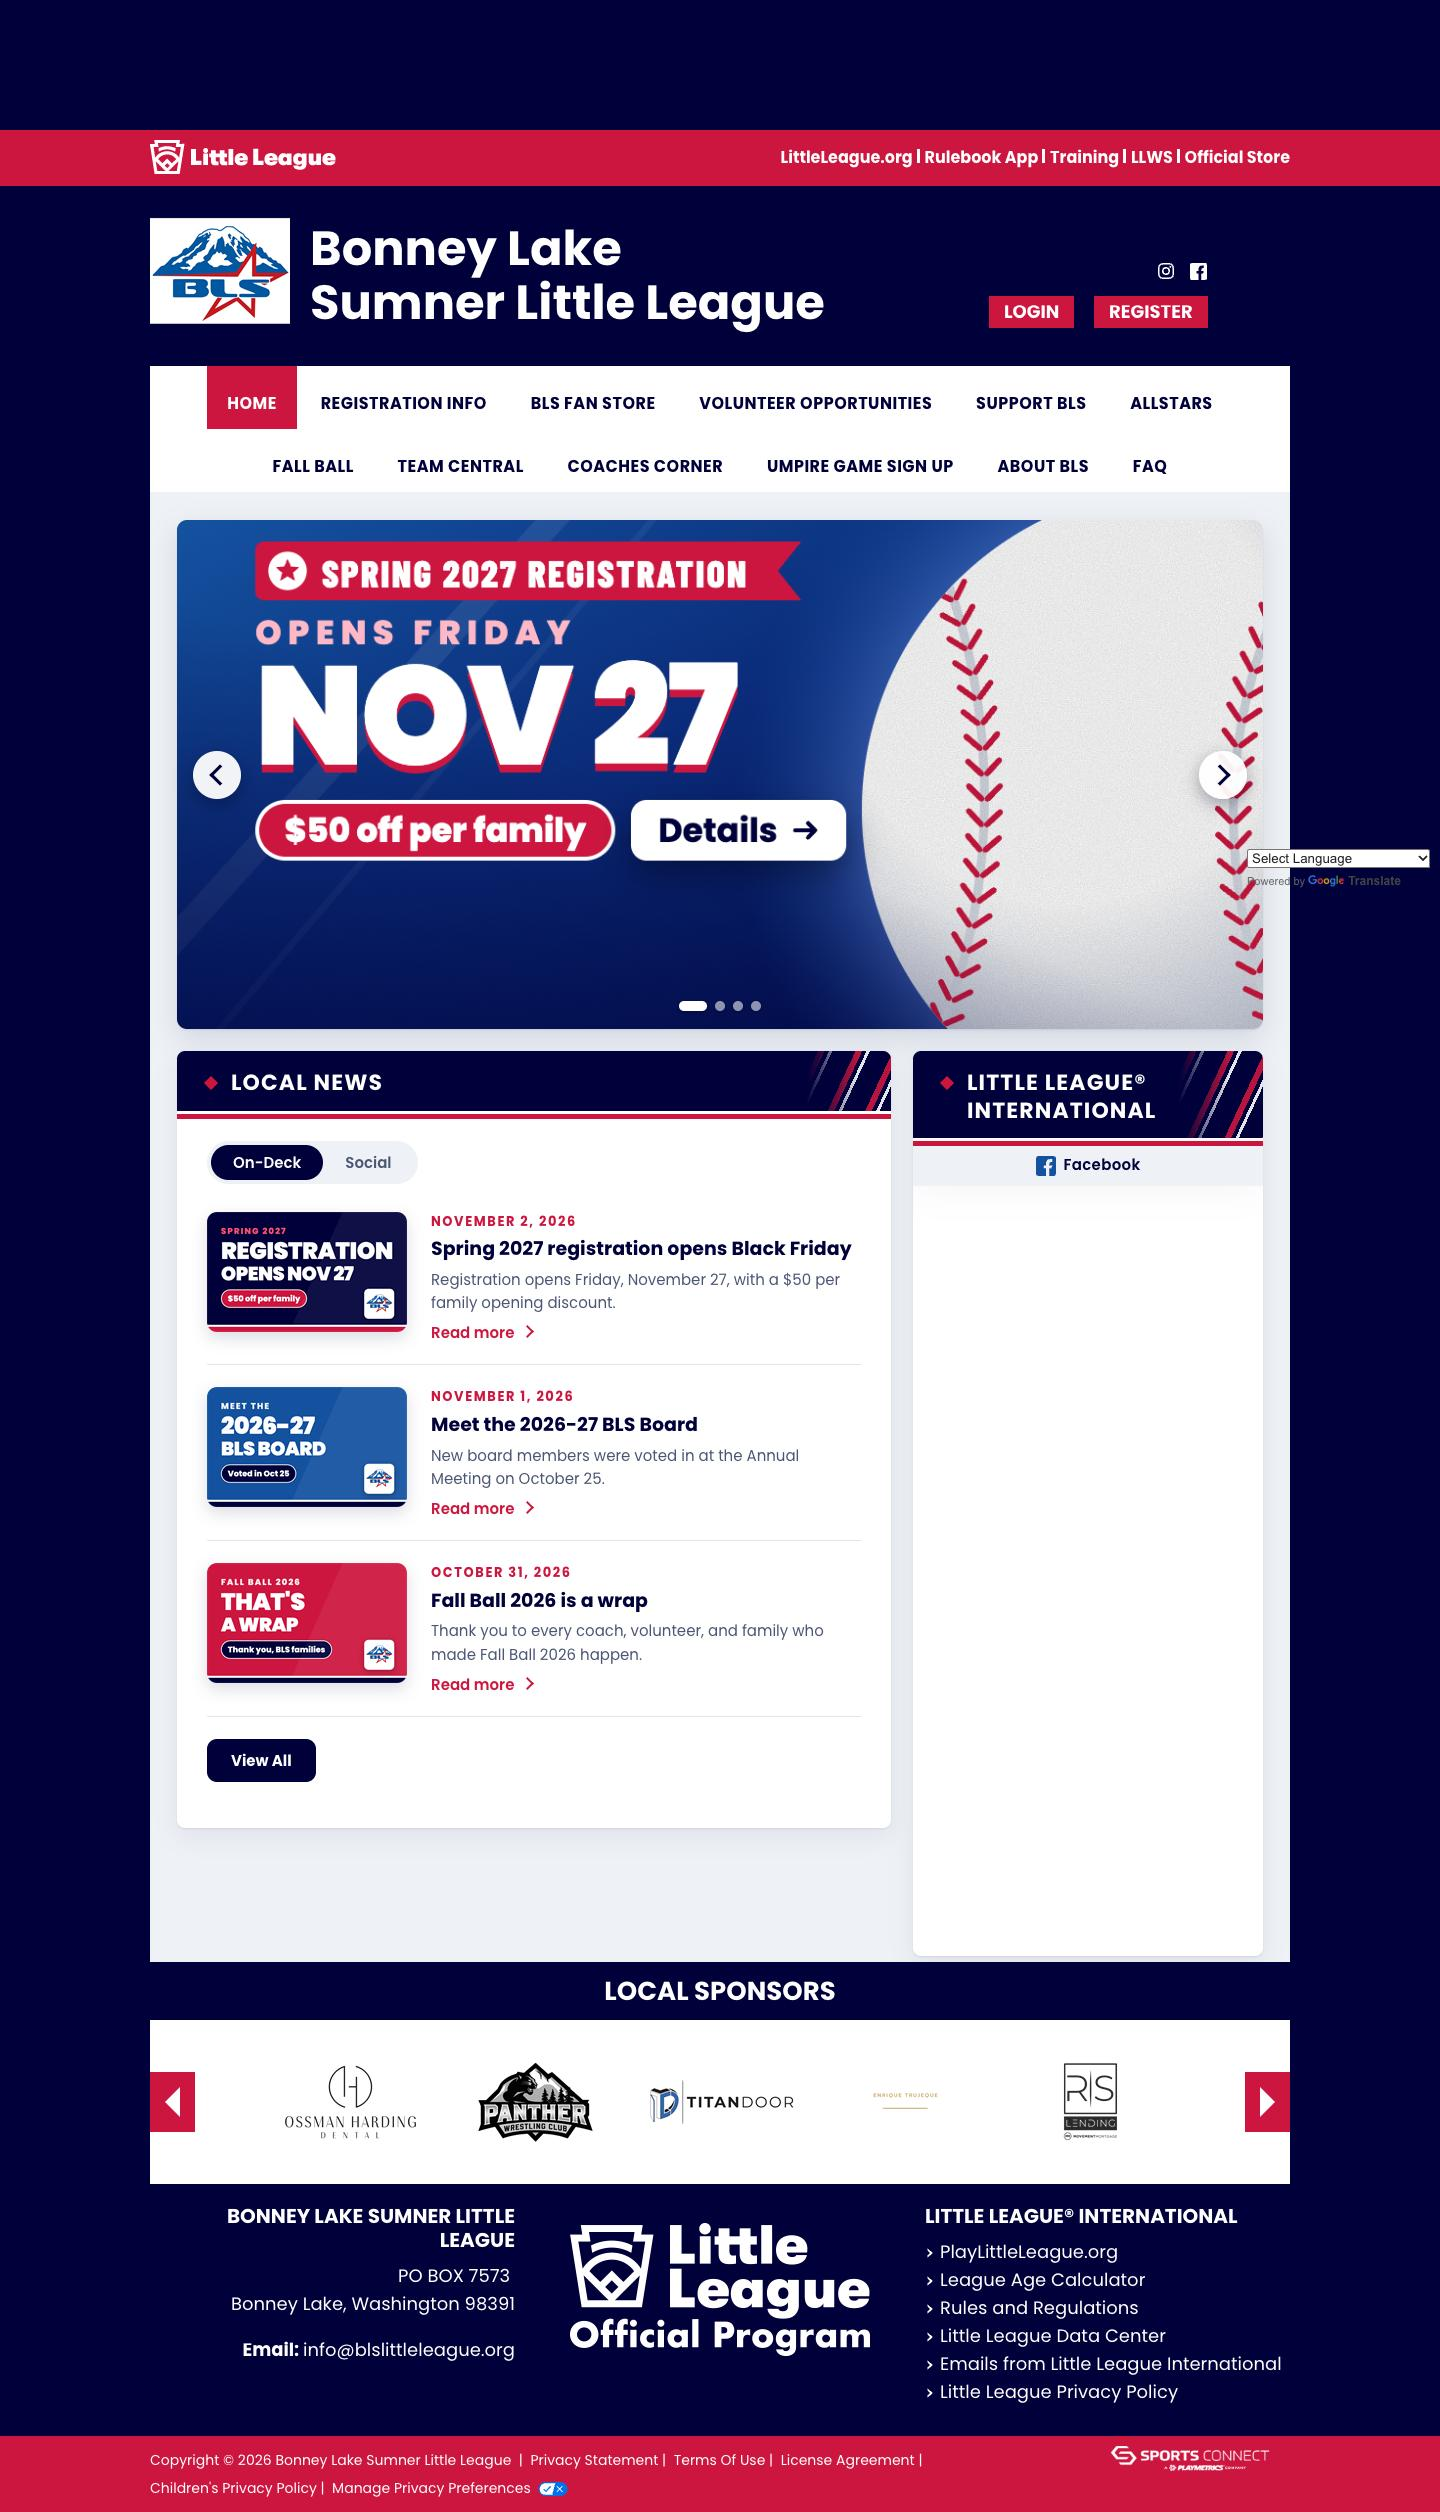
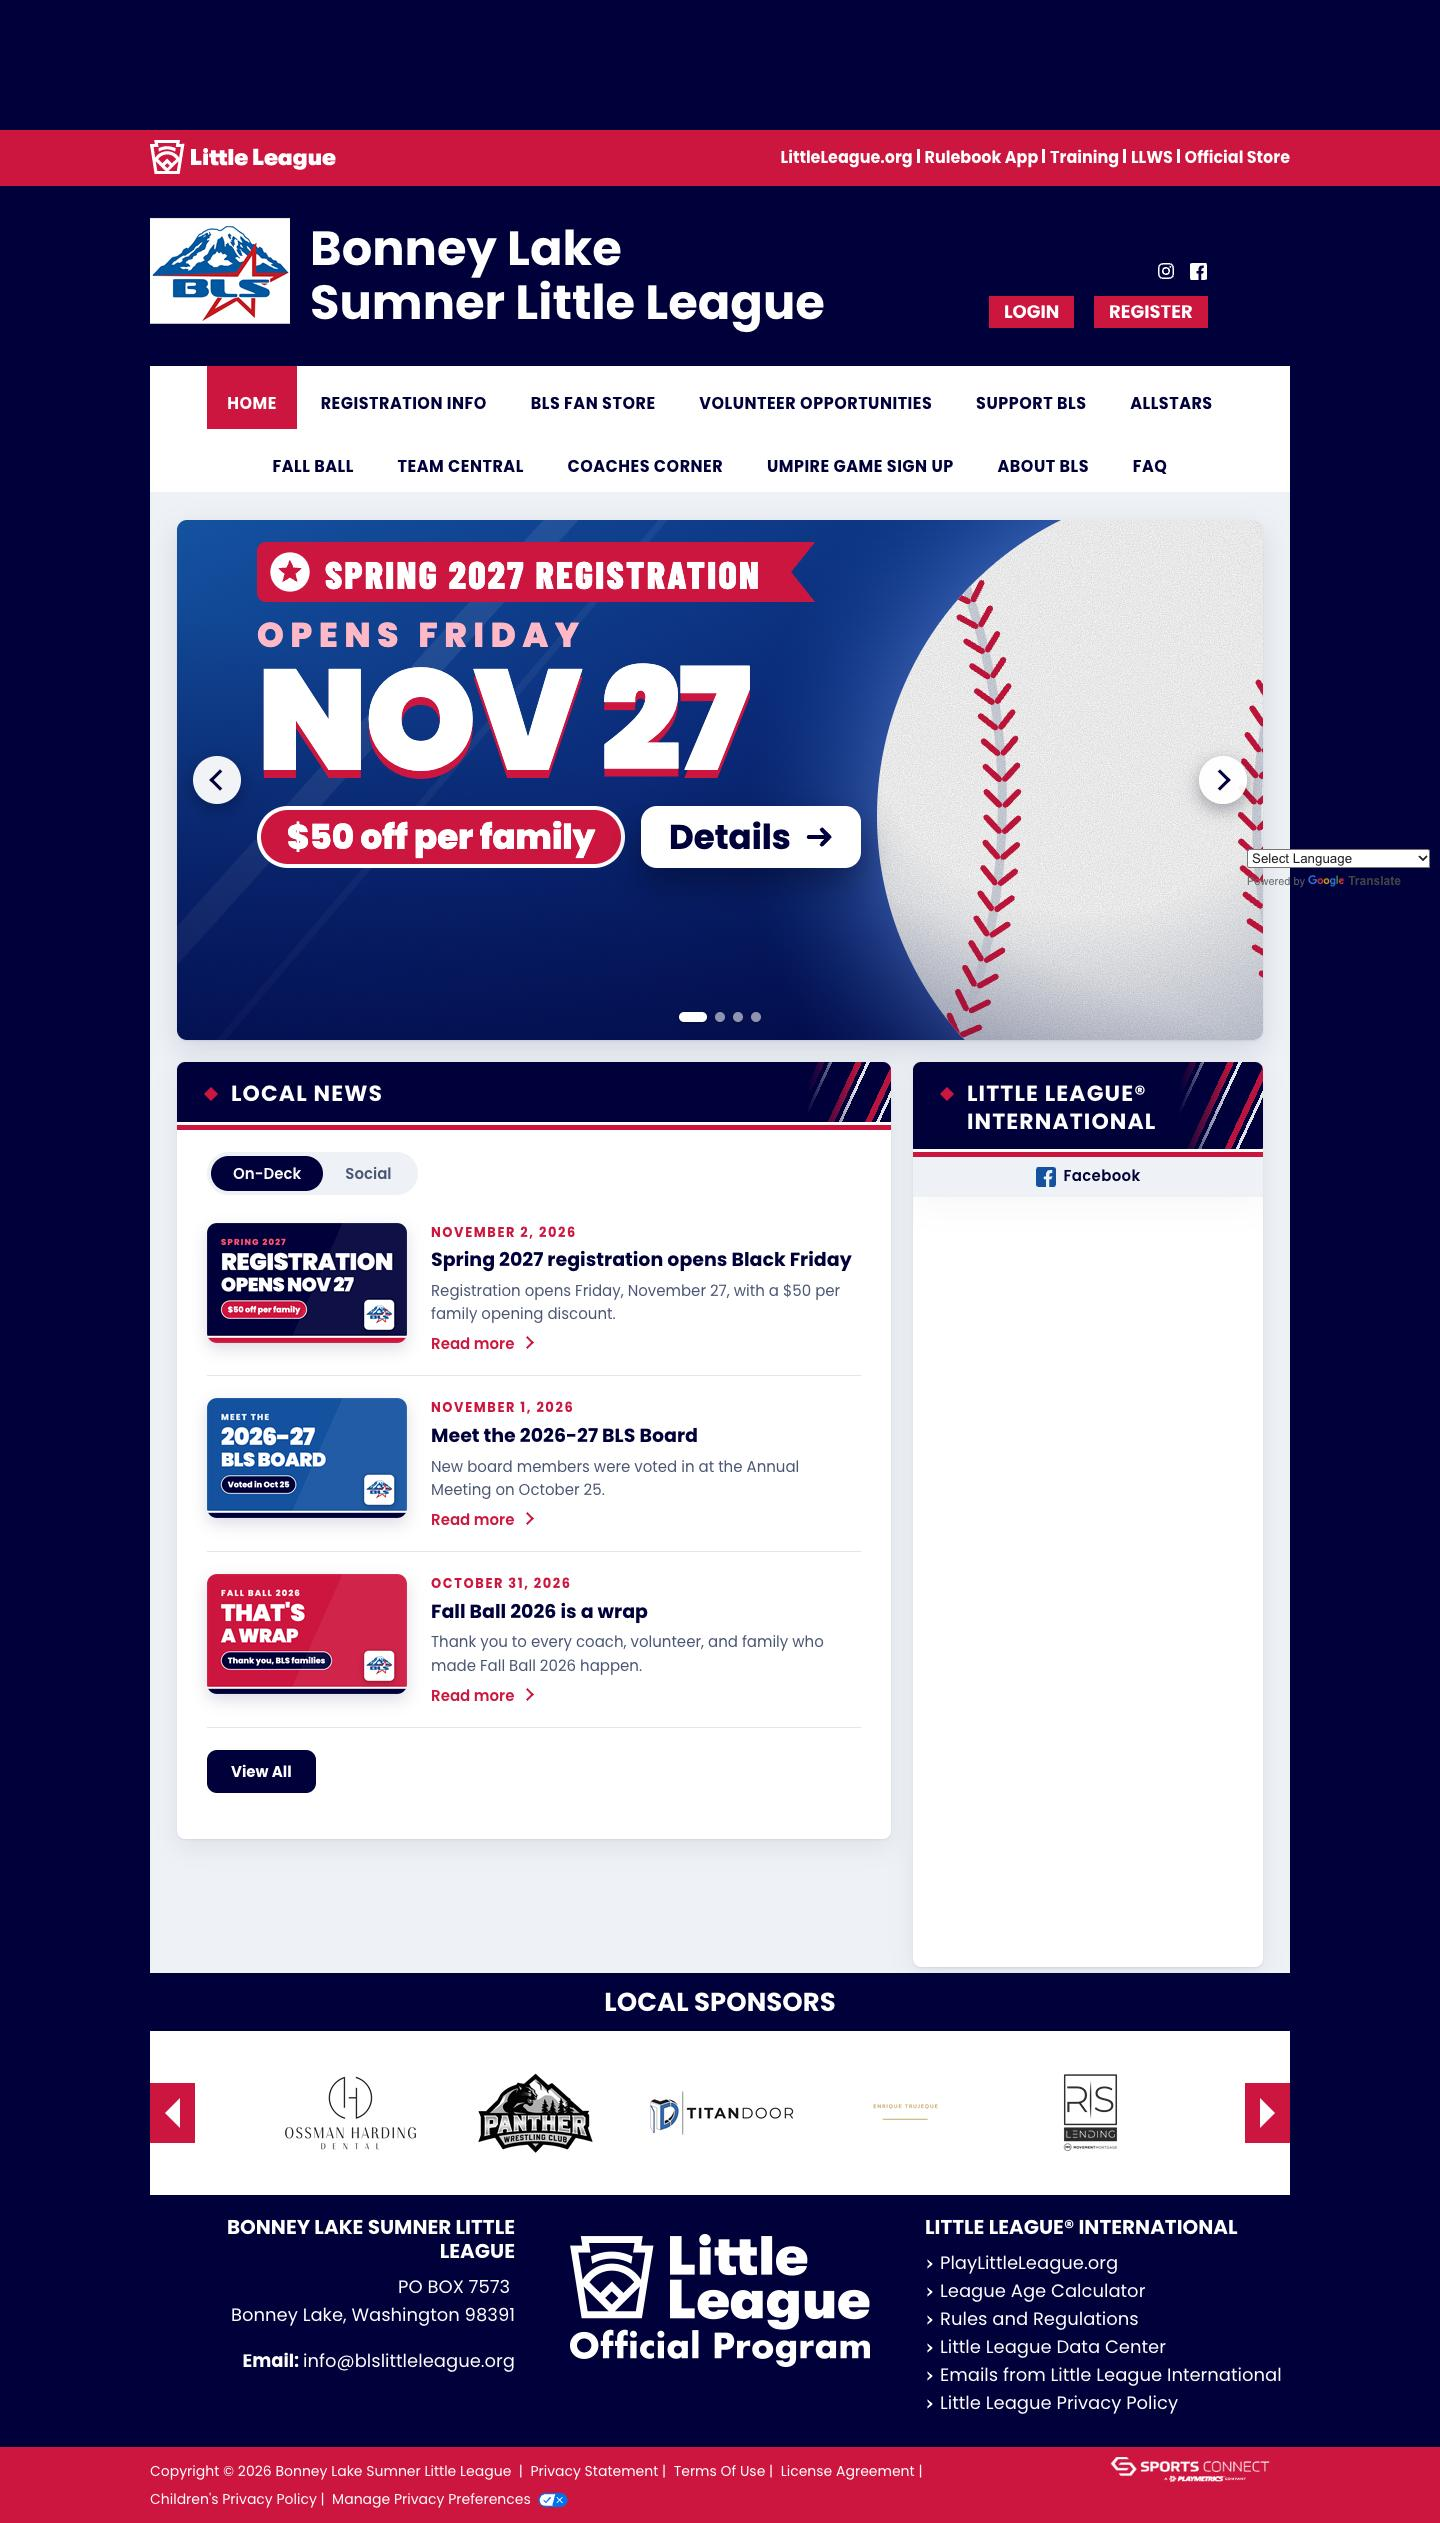
bls preview: fix home slides squeezing to thirds on slow phone connections
The home.css rule forcing slide images to width:100% let carouFredSel
measure slides before the images loaded (3 per view on iPhone).

Claude-Session: https://claude.ai/code/session_018pH9PNFLS4TcMKKFXS6iHD

diff --git a/bls/preview/proposed/home.html b/bls/preview/proposed/home.html
@@ -258,7 +258,7 @@ body:not(.Inner-Skin) .skContentArea:has(#dnn_ctr765764_ModuleContent .skSlider)
 
 /* ---------- Rotator: rounded card, round arrow buttons, pill dots ---------- */
 body:not(.Inner-Skin) #dnn_ctr765764_ModuleContent #slider1110520{padding:0!important}
-body:not(.Inner-Skin) #dnn_ctr765764_ModuleContent #slider1110520 .skList img{display:block;width:100%!important;height:auto!important}
+/* (removed 11/3: forcing img width:100% let the slider measure 1/3-width slides on slow phone connections) */
 body:not(.Inner-Skin) #dnn_ctr765764_ModuleContent .caroufredsel_wrapper{border-radius:10px;box-shadow:0 1px 2px rgba(0,1,58,.08),0 10px 28px rgba(0,1,58,.12)}
 body:not(.Inner-Skin) #dnn_ctr765764_ModuleContent :is(.skPrevBtn,.skNextBtn){top:50%!important;width:48px!important;height:48px!important;margin:-24px 0 0!important;padding:0!important;border-radius:50%;background:rgba(255,255,255,.94)!important;box-shadow:0 6px 18px rgba(0,0,30,.35);z-index:5;transition:transform .15s}
 body:not(.Inner-Skin) #dnn_ctr765764_ModuleContent .skPrevBtn{left:16px!important}

diff --git a/bls/preview/modules/home.css b/bls/preview/modules/home.css
@@ -14,7 +14,7 @@ body:not(.Inner-Skin) .skContentArea:has(#dnn_ctr765764_ModuleContent .skSlider)
 
 /* ---------- Rotator: rounded card, round arrow buttons, pill dots ---------- */
 body:not(.Inner-Skin) #dnn_ctr765764_ModuleContent #slider1110520{padding:0!important}
-body:not(.Inner-Skin) #dnn_ctr765764_ModuleContent #slider1110520 .skList img{display:block;width:100%!important;height:auto!important}
+/* (removed 11/3: forcing img width:100% let the slider measure 1/3-width slides on slow phone connections) */
 body:not(.Inner-Skin) #dnn_ctr765764_ModuleContent .caroufredsel_wrapper{border-radius:10px;box-shadow:0 1px 2px rgba(0,1,58,.08),0 10px 28px rgba(0,1,58,.12)}
 body:not(.Inner-Skin) #dnn_ctr765764_ModuleContent :is(.skPrevBtn,.skNextBtn){top:50%!important;width:48px!important;height:48px!important;margin:-24px 0 0!important;padding:0!important;border-radius:50%;background:rgba(255,255,255,.94)!important;box-shadow:0 6px 18px rgba(0,0,30,.35);z-index:5;transition:transform .15s}
 body:not(.Inner-Skin) #dnn_ctr765764_ModuleContent .skPrevBtn{left:16px!important}
